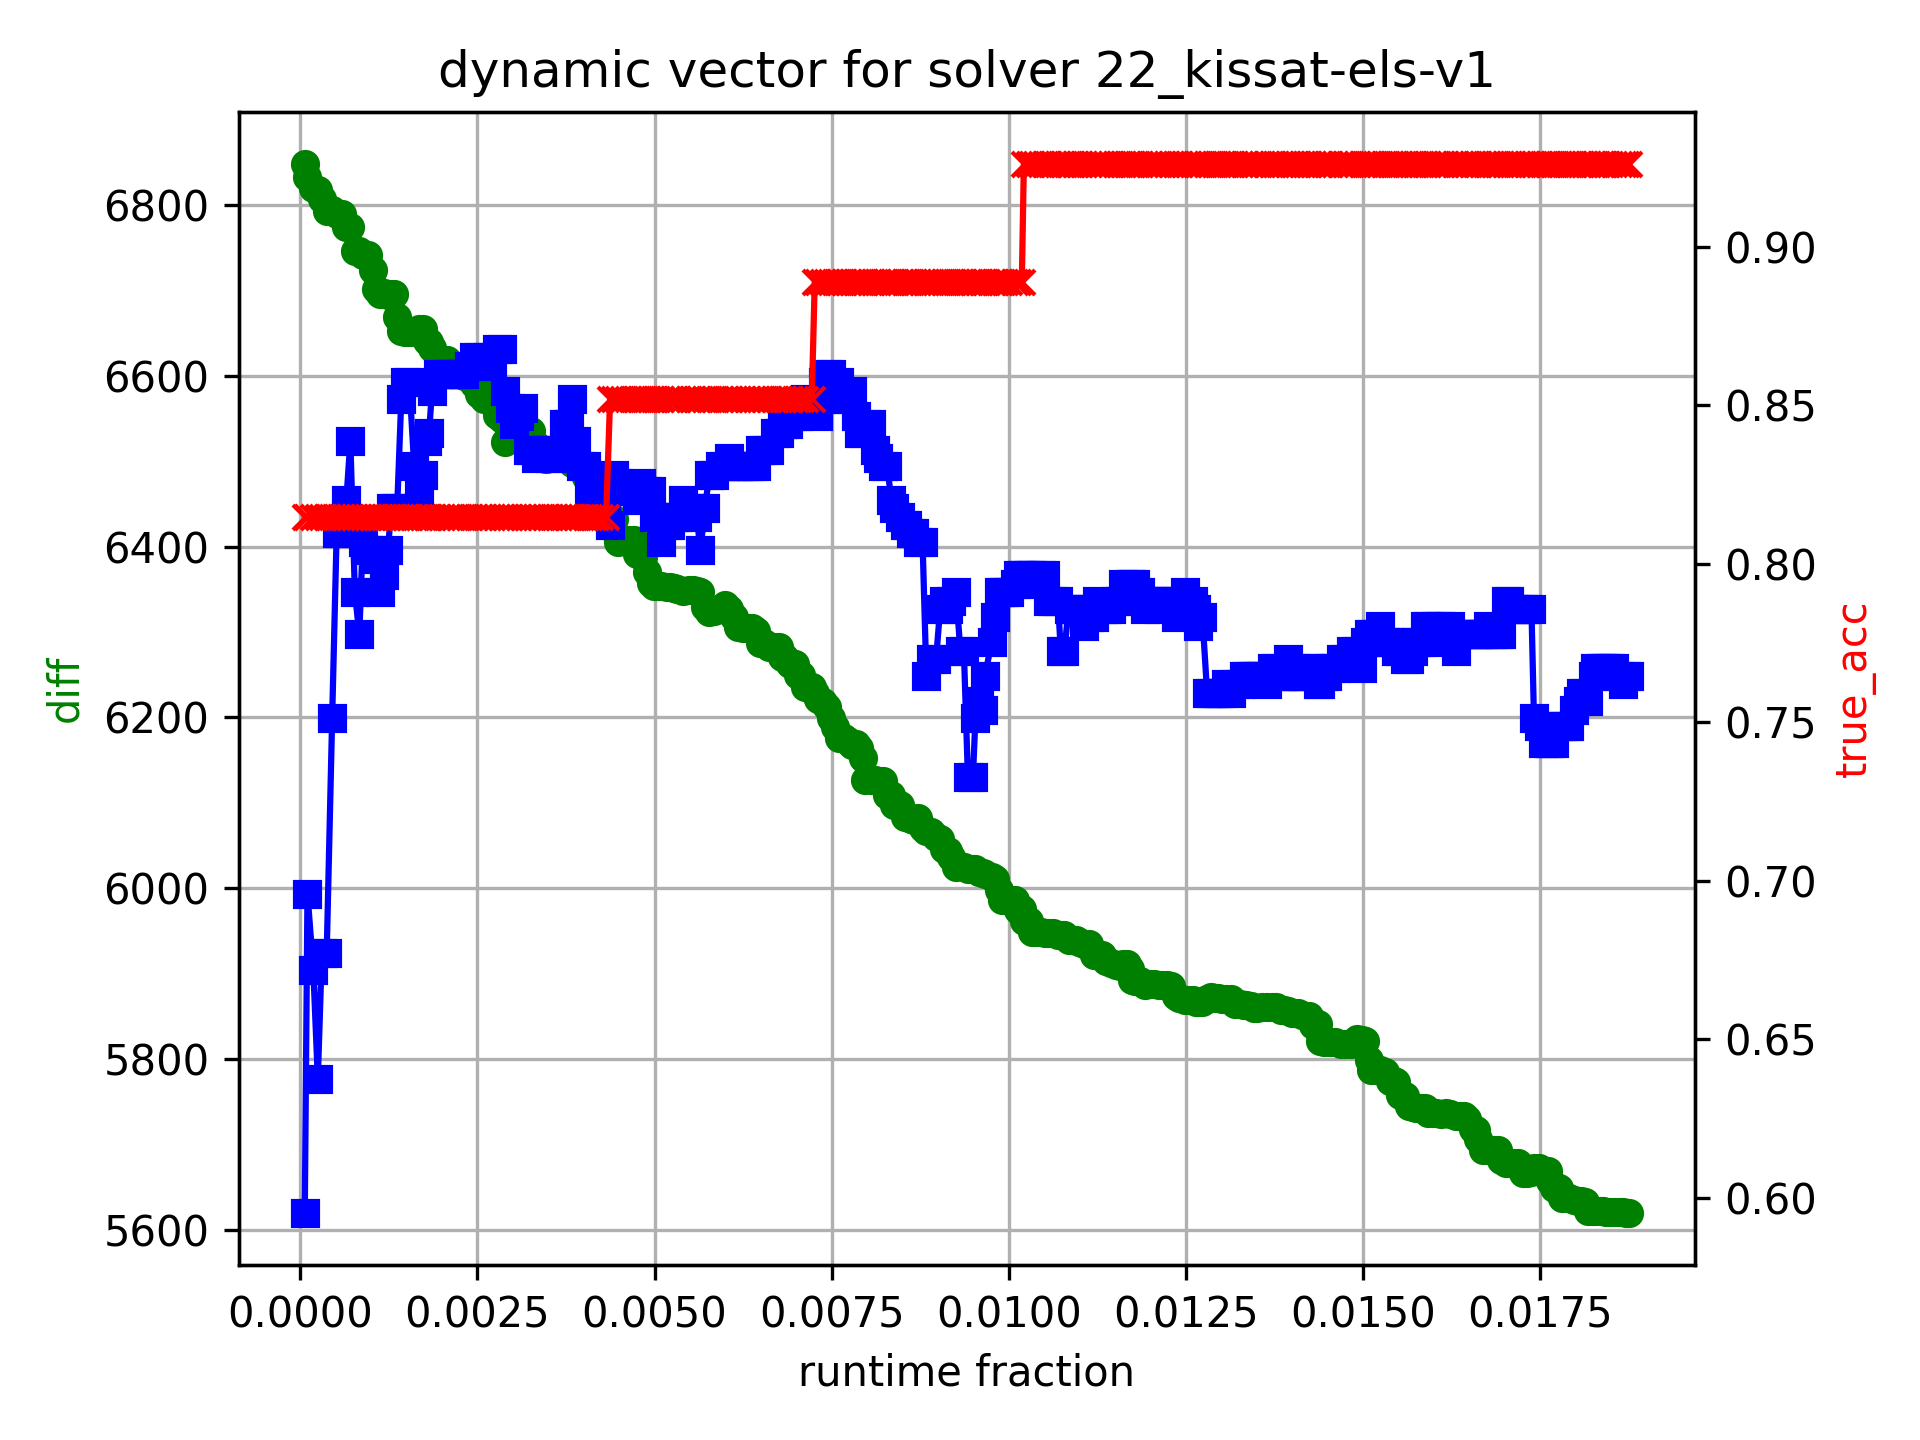
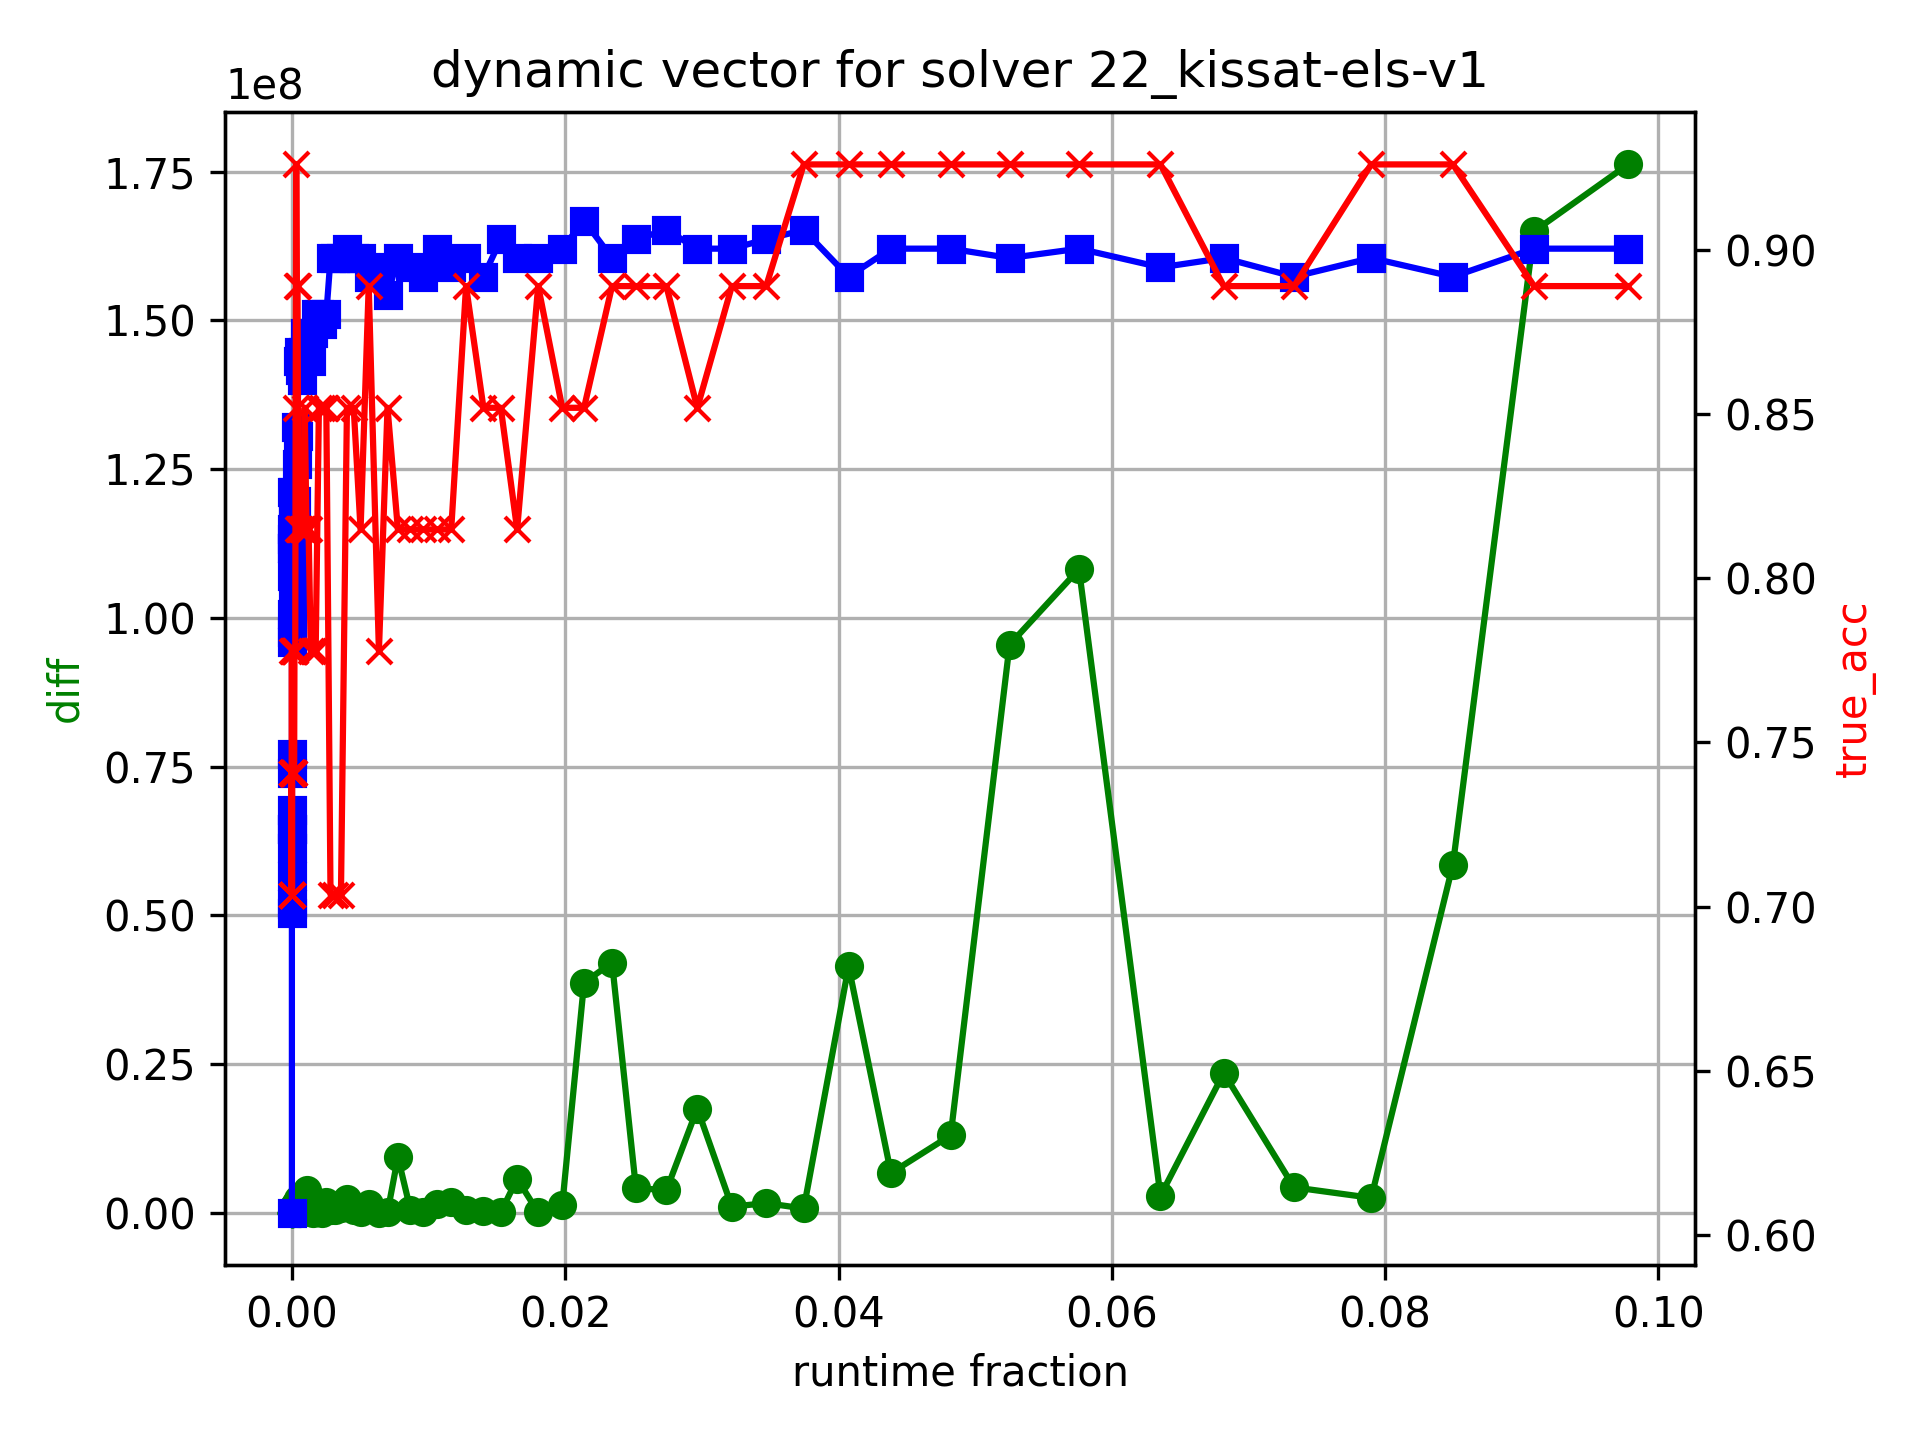
feat: seepdup quantized runtime

diff --git a/src/al_experiments/plot_generator.py b/src/al_experiments/plot_generator.py
@@ -19,14 +19,25 @@ class PlotGenerator:
         dynamic_timeout_optimized_runtime_frac = np.array([0.001427, 0.002411, 0.003394, 0.004377, 0.005361, 0.006344, 0.007327, 0.008311, 0.009294, 0.010277, 0.011261, 0.012244, 0.013227, 0.014211, 0.015194, 0.016178, 0.017161, 0.018144, 0.019128, 0.020111, 0.021094, 0.022078, 0.023061, 0.024044, 0.025028, 0.026011, 0.026994, 0.027978, 0.028961, 0.029944, 0.030928, 0.031911, 0.032894, 0.033878, 0.034861, 0.035845, 0.036828, 0.037811, 0.038795, 0.039778, 0.040761, 0.041745, 0.042728, 0.043711, 0.044695, 0.045678, 0.046661, 0.047645, 0.048628, 0.049611, 0.050595, 0.051578, 0.052561, 0.053545, 0.054528, 0.055512, 0.056495, 0.057478, 0.058462, 0.059445, 0.060428, 0.061412, 0.062395, 0.063378, 0.064362, 0.065345, 0.066328, 0.067312, 0.068295, 0.069278, 0.070262, 0.071245, 0.072228, 0.073212, 0.074195, 0.075179, 0.076162, 0.077145, 0.078129, 0.079112, 0.080095, 0.081079, 0.082062, 0.083045, 0.084029, 0.085012, 0.085995, 0.086979, 0.087962, 0.088945, 0.089929, 0.090912, 0.091895, 0.092879, 0.093862, 0.094845, 0.095829, 0.096812, 0.097796, 0.098779]) 
         dynamic_timeout_optimized_true_acc = np.array([0.915045, 0.911842, 0.903083, 0.905274, 0.909750, 0.923364, 0.930298, 0.930972, 0.930386, 0.918715, 0.921096, 0.926069, 0.924703, 0.917278, 0.918582, 0.916526, 0.913898, 0.919391, 0.919613, 0.920864, 0.918878, 0.919720, 0.919967, 0.919121, 0.921070, 0.918207, 0.912812, 0.909581, 0.907517, 0.907499, 0.908177, 0.907898, 0.906824, 0.903456, 0.905493, 0.906737, 0.904698, 0.904792, 0.905999, 0.905993, 0.904649, 0.902110, 0.899954, 0.897426, 0.893337, 0.892723, 0.895743, 0.893570, 0.893444, 0.894502, 0.894002, 0.889396, 0.890087, 0.892857, 0.894163, 0.896261, 0.897140, 0.900478, 0.901393, 0.903588, 0.899612, 0.900736, 0.897163, 0.894490, 0.898444, 0.900974, 0.902380, 0.900323, 0.901981, 0.899697, 0.897681, 0.901584, 0.899075, 0.897663, 0.897110, 0.896737, 0.897074, 0.893708, 0.894759, 0.895580, 0.895503, 0.894948, 0.896996, 0.894498, 0.892857, 0.892041, 0.891571, 0.892358, 0.892372, 0.894156, 0.889654, 0.894529, 0.897532, 0.900728, 0.902143, 0.901996, 0.902031, 0.904149, 0.906475, 0.906085]) 
 
+
+        # optimize diff * rt
+        dynamic_timeout_quantized_selection_runtime_fraction = np.array([8.450451e-08, 9.655512e-04, 1.931018e-03, 2.896485e-03, 3.861951e-03, 4.827418e-03, 5.792884e-03, 6.758351e-03, 7.723818e-03, 8.689284e-03, 9.654751e-03, 1.062022e-02, 1.158568e-02, 1.255115e-02, 1.351662e-02, 1.448208e-02, 1.544755e-02, 1.641302e-02, 1.737848e-02, 1.834395e-02, 1.930942e-02, 2.027488e-02, 2.124035e-02, 2.220582e-02, 2.317128e-02, 2.413675e-02, 2.510222e-02, 2.606768e-02, 2.703315e-02, 2.799862e-02, 2.896408e-02, 2.992955e-02, 3.089502e-02, 3.186048e-02, 3.282595e-02, 3.379142e-02, 3.475688e-02, 3.572235e-02, 3.668782e-02, 3.765328e-02, 3.861875e-02, 3.958422e-02, 4.054968e-02, 4.151515e-02, 4.248062e-02, 4.344608e-02, 4.441155e-02, 4.537702e-02, 4.634248e-02, 4.730795e-02, 4.827342e-02, 4.923888e-02, 5.020435e-02, 5.116982e-02, 5.213528e-02, 5.310075e-02, 5.406622e-02, 5.503168e-02, 5.599715e-02, 5.696262e-02, 5.792808e-02, 5.889355e-02, 5.985902e-02, 6.082448e-02, 6.178995e-02, 6.275542e-02, 6.372088e-02, 6.468635e-02, 6.565182e-02, 6.661728e-02, 6.758275e-02, 6.854822e-02, 6.951368e-02, 7.047915e-02, 7.144462e-02, 7.241008e-02, 7.337555e-02, 7.434102e-02, 7.530648e-02, 7.627195e-02, 7.723742e-02, 7.820288e-02, 7.916835e-02, 8.013382e-02, 8.109928e-02, 8.206475e-02, 8.303022e-02, 8.399568e-02, 8.496115e-02, 8.592662e-02, 8.689208e-02, 8.785755e-02, 8.882302e-02, 8.978848e-02, 9.075395e-02, 9.171942e-02, 9.268488e-02, 9.365035e-02, 9.461582e-02, 9.558128e-02])
+        dynamic_timeout_quantized_selection_true_acc = np.array([0.630429, 0.870839, 0.879687, 0.883928, 0.894703, 0.900520, 0.903519, 0.901929, 0.896521, 0.887323, 0.885619, 0.880964, 0.881657, 0.879792, 0.878960, 0.878846, 0.877973, 0.878795, 0.876405, 0.874096, 0.874054, 0.877390, 0.882393, 0.885378, 0.887042, 0.887133, 0.888124, 0.891772, 0.894856, 0.894653, 0.893537, 0.893280, 0.894243, 0.895233, 0.896959, 0.898625, 0.898863, 0.897194, 0.895272, 0.893958, 0.895032, 0.896225, 0.897548, 0.898162, 0.899341, 0.900465, 0.901198, 0.900626, 0.900055, 0.899483, 0.898416, 0.897576, 0.896707, 0.895838, 0.895234, 0.894963, 0.893309, 0.891515, 0.889720, 0.887657, 0.886079, 0.886276, 0.886649, 0.887023, 0.887398, 0.888255, 0.889091, 0.888469, 0.887653, 0.886836, 0.885881, 0.885030, 0.884988, 0.884752, 0.884516, 0.884280, 0.884223, 0.884304, 0.885688, 0.887072, 0.888457, 0.889841, 0.890755, 0.890967, 0.890528, 0.890090, 0.889651, 0.889213, 0.888866, 0.888819, 0.888384, 0.887950, 0.887515, 0.887081, 0.886565, 0.885037, 0.884131, 0.883226, 0.882321, 0.881416])
+
+        # optimize diff
+        dynamic_timeout_quantized_min_diff_runtime_fraction = np.array([0.001609, 0.002547, 0.003486, 0.004424, 0.005363, 0.006302, 0.007240, 0.008179, 0.009117, 0.010056, 0.010994, 0.011933, 0.012871, 0.013810, 0.014748, 0.015687, 0.016625, 0.017564, 0.018502, 0.019441, 0.020379, 0.021318, 0.022256, 0.023195, 0.024134, 0.025072, 0.026011, 0.026949, 0.027888, 0.028826, 0.029765, 0.030703, 0.031642, 0.032580, 0.033519, 0.034457, 0.035396, 0.036334, 0.037273, 0.038211, 0.039150, 0.040088, 0.041027, 0.041965, 0.042904, 0.043843, 0.044781, 0.045720, 0.046658, 0.047597, 0.048535, 0.049474, 0.050412, 0.051351, 0.052289, 0.053228, 0.054166, 0.055105, 0.056043, 0.056982, 0.057920, 0.058859, 0.059797, 0.060736, 0.061675, 0.062613, 0.063552, 0.064490, 0.065429, 0.066367, 0.067306, 0.068244, 0.069183, 0.070121, 0.071060, 0.071998, 0.072937, 0.073875, 0.074814, 0.075752, 0.076691, 0.077629, 0.078568, 0.079506, 0.080445, 0.081384, 0.082322, 0.083261, 0.084199, 0.085138, 0.086076, 0.087015, 0.087953, 0.088892, 0.089830, 0.090769, 0.091707, 0.092646, 0.093584, 0.094523])
+        dynamic_timeout_quantized_min_diff_true_acc = np.array([0.898875, 0.900107, 0.914068, 0.908409, 0.892360, 0.891800, 0.898155, 0.894890, 0.894923, 0.900389, 0.903285, 0.906275, 0.901771, 0.902656, 0.902344, 0.903999, 0.905402, 0.903656, 0.904517, 0.905251, 0.903801, 0.902986, 0.904368, 0.904848, 0.906101, 0.908765, 0.912711, 0.916872, 0.914912, 0.913193, 0.914907, 0.917773, 0.919231, 0.918870, 0.917962, 0.916362, 0.916838, 0.917315, 0.917171, 0.916020, 0.914869, 0.914273, 0.916905, 0.919720, 0.922358, 0.923650, 0.922345, 0.921041, 0.919965, 0.919068, 0.919022, 0.918995, 0.918969, 0.919501, 0.920275, 0.920861, 0.921447, 0.921971, 0.922380, 0.922916, 0.923437, 0.923957, 0.924087, 0.924392, 0.924366, 0.924142, 0.923918, 0.923716, 0.923296, 0.922581, 0.922648, 0.922907, 0.923167, 0.923426, 0.923991, 0.924619, 0.924603, 0.924588, 0.924573, 0.924557, 0.924542, 0.924798, 0.924774, 0.924236, 0.923698, 0.923160, 0.922622, 0.922080, 0.921227, 0.920303, 0.920107, 0.919911, 0.919715, 0.919519, 0.919324, 0.919415, 0.920063, 0.920904, 0.921765, 0.922625])
+
         al_runtime_frac = np.array([0.02106387, 0.02159122, 0.02176197, 0.02385467, 0.02522425, 0.02807994, 0.05256794, 0.14633324])
         al_true_acc = np.array([0.59288538, 0.6798419,  0.69762846, 0.76482213, 0.77865613, 0.80237154, 0.82411067, 0.8972332])
 
         plt.figure(figsize=(10, 6))
-        plt.plot(random_baseline_whole_instances_runtime_frac, random_baseline_whole_instances_true_acc, marker='x', label="random instances")
+        #plt.plot(random_baseline_whole_instances_runtime_frac, random_baseline_whole_instances_true_acc, marker='x', label="random instances")
         plt.plot(random_baseline_dynamic_timeout_runtime_frac, random_baseline_dynamic_timeout_true_acc, marker='x', label="random dynamic timeout")
         plt.plot(variance_based_selection_runtime_frac, variance_based_selection_true_acc, marker='x', label="variance based selection")
         plt.plot(dynamic_timeout_optimized_runtime_frac, dynamic_timeout_optimized_true_acc, marker='x', label="dynamic timeout optimized")
+        plt.plot(dynamic_timeout_quantized_selection_runtime_fraction, dynamic_timeout_quantized_selection_true_acc, marker='x', label="min diff*rt")
+        plt.plot(dynamic_timeout_quantized_min_diff_runtime_fraction, dynamic_timeout_quantized_min_diff_true_acc, marker='x', label="min diff")
         #plt.plot(al_runtime_frac, al_true_acc, marker='x', label="active learning")
         plt.legend()
         plt.xlabel("Fraction of Runtime")

diff --git a/src/al_experiments.py b/src/al_experiments.py
@@ -8,6 +8,8 @@ from al_experiments.helper import push_notification
 from al_experiments.accuracy import Accuracy
 from scipy.interpolate import interp1d
 
+from al_experiments.plot_generator import PlotGenerator
+
 # constants
 number_of_solvers = 28
 solver_fraction = 1/number_of_solvers
@@ -186,7 +188,7 @@ def store_and_show_mean_result():
     ax1.grid(True)
     ax1.set_xlabel("runtime fraction")
     fig.tight_layout()
-    fig.savefig("./plots/test-delete/average_results.png", dpi=300)
+    fig.savefig("./plots/quantized runtime min diff/average_results.png", dpi=300)
 
 
 def determine_tresholds(
@@ -244,7 +246,7 @@ def determine_tresholds(
     ax1.grid(True)
     ax1.set_xlabel("runtime fraction")
     fig.tight_layout()
-    fig.savefig(f"./plots/test-delete/{solver_string}_results.png", dpi=300)
+    fig.savefig(f"./plots/quantized runtime min diff/{solver_string}_results.png", dpi=300)
 
     return thresholds
 
@@ -275,6 +277,9 @@ def get_stats(df_rated, df_runtimes, par_2_scores_series, par_2_scores, runtimes
 if __name__ == "__main__":
 
     push_notification("start test")
+
+    plot_generator = PlotGenerator()
+    plot_generator.create_progress_plot()
 
     with open(
         "../al-for-sat-solver-benchmarking-data/pickled-data/anni_full_df.pkl",

diff --git a/src/al_experiments/accuracy.py b/src/al_experiments/accuracy.py
@@ -113,7 +113,7 @@ class Accuracy:
         #print(similarity)
         #print(similarity.shape)
 
-        score = (similarity * total_added_runtime)
+        score = similarity #* total_added_runtime
         #print("fast")
         #for sc in score:
         #    print(sc, end=", ")
@@ -143,16 +143,13 @@ class Accuracy:
         return thresholds, prev_max_acc, prev_min_diff
 
     def sample_result(self, thresholds: np.ndarray, best_score=0):
+
         runtime_frac = self.used_runtime/self.total_runtime
         cross_acc = self.calc_cross_acc_2(self.par_2_scores, self.pred)
 
         new_pred = 0
         for index, runtime_list in enumerate(self.sorted_runtimes):
-            if thresholds[index] == 0:
-                # TODO: refactor, this should now be trivial
-                timeout = 0
-            else:
-                _, timeout = runtime_list[thresholds[index]-1]
+            _, timeout = runtime_list[thresholds[index]]
             if timeout > self.runtime_of_removed_solver[index]:
                 new_pred += self.runtime_of_removed_solver[index]
             else:
